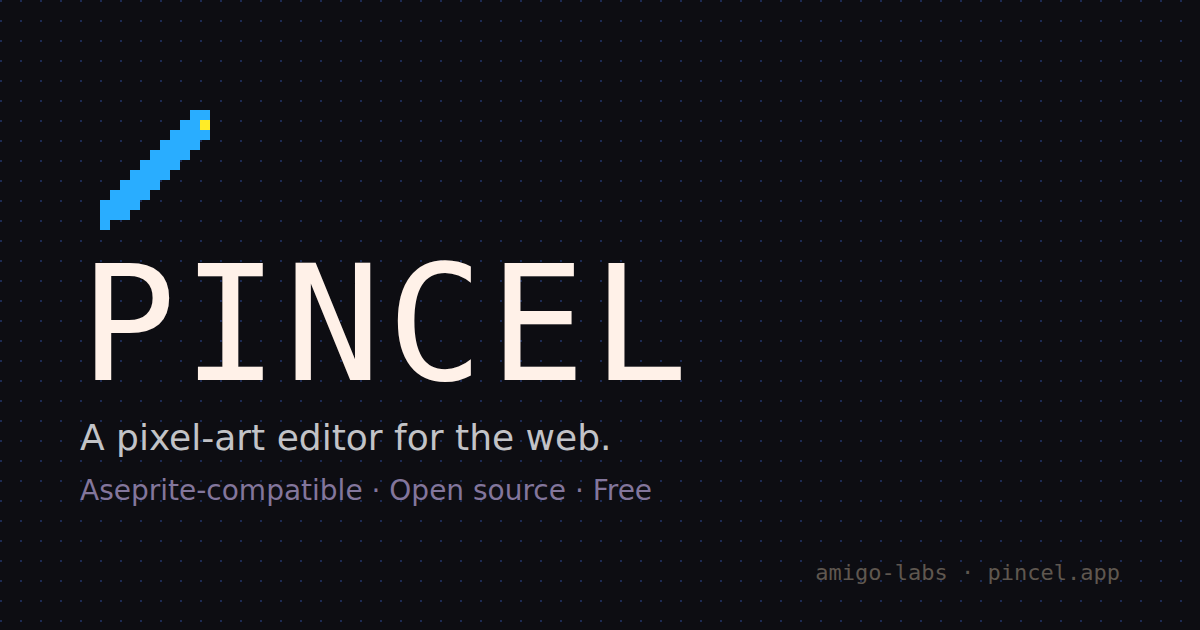
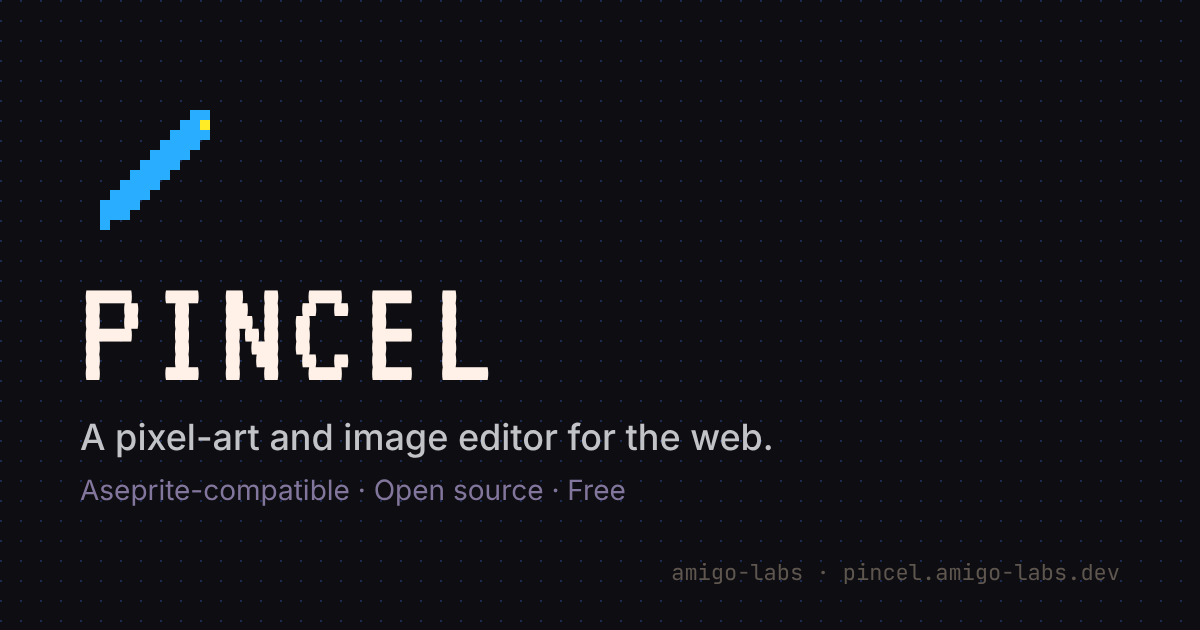
docs(website): pixel art and image editing on equal footing
Hero, SEO title / description, JSON-LD, pitch, feature grid and about
copy in English and German present both editors; the hero title breaks
into three even lines. The social preview image says the same and is
re-rendered from its SVG with the intended fonts (the old PNG used
fallback fonts and the old domain).

Claude-Session: https://claude.ai/code/session_01WH5YWiAC4dLCHVX7nUNuJX

diff --git a/website/src/lib/i18n/de.ts b/website/src/lib/i18n/de.ts
@@ -26,9 +26,9 @@ export const de: Messages = {
   },
   hero: {
     caption: 'Pixel-Art- & Bildeditor · v0.1',
-    title: 'Ein Pixel-Art-Editor\nfürs Web.',
+    title: 'Ein Pixel-Art-\nund Bildeditor\nfürs Web.',
     tagline:
-      'Aseprite-kompatibel. Open Source. Kostenlos. Erstelle Sprites, Tilemaps und Animationen im Browser. Speichere als `.aseprite`. Ab damit ins Spiel. Einen Screenshot oder ein Foto nachbearbeiten? Der Bild-Modus öffnet PNG, JPEG und WebP mit Ebenen und Effekten. Kein Konto, kein Upload, kein Haken.',
+      'Open Source. Kostenlos. Zwei Editoren in einem: Erstelle Sprites, Tilemaps und Animationen, speichere sie Aseprite-kompatibel als `.aseprite` und ab damit ins Spiel. Bearbeite Fotos, Screenshots und Grafiken mit Ebenen, Pinseln, Auswahlen und Effekten – PNG, JPEG, WebP, TIFF und mehr. Kein Konto, kein Upload, kein Haken.',
     github: 'Auf GitHub ansehen',
     scene: 'Eine kleine blaue Figur in einem Steinraum, beleuchtet von einer flackernden Fackel.',
   },
@@ -63,7 +63,7 @@ export const de: Messages = {
     image: {
       title: 'Bild-Modus',
       description:
-        'Ebenen, Mischmodi, Auswahlen und Effekte für Screenshots und Fotos. Speichert .ora.',
+        'Ebenen, Pinsel, Auswahlen, Effekte und Korrekturen für Fotos, Screenshots und Grafiken. Speichert .ora.',
     },
     offline: {
       title: 'Offline-PWA',
@@ -108,7 +108,7 @@ export const de: Messages = {
       timeline: 'Animations-Zeitleiste + Tags',
       tablet: 'Tablet- / Stift-Unterstützung',
       browser: 'Läuft im Browser',
-      photo: 'Foto- / Screenshot-Bearbeitung mit Ebenen',
+      photo: 'Bildbearbeitung mit Ebenen (Fotos, Screenshots)',
       desktop: 'Native Desktop-App',
       library: 'Als Bibliothek einbettbar',
       scripting: 'Lua-Skripte / Erweiterungen',
@@ -132,15 +132,15 @@ export const de: Messages = {
     },
   },
   home: {
-    seoTitle: 'Pincel – ein Pixel-Art-Editor fürs Web',
+    seoTitle: 'Pincel – ein Pixel-Art- und Bildeditor fürs Web',
     seoDescription:
-      'Aseprite-kompatibler Pixel-Art-Editor im Browser, dazu ein Bild-Modus mit Ebenen für Screenshots und Fotos. Open Source, kostenlos, mit Tilemaps, Slices, Animation und Tablet-Unterstützung.',
+      'Pixel-Art- und Bildeditor im Browser: Aseprite-kompatible Sprites, Tilemaps, Slices und Animation, dazu Bildbearbeitung mit Ebenen, Pinseln, Auswahlen und Effekten für Fotos und Screenshots. Open Source, kostenlos, mit Tablet-Unterstützung.',
     jsonLd:
-      'Ein Pixel-Art-Editor fürs Web, mit einem Bild-Modus mit Ebenen für die alltägliche Bearbeitung. Aseprite-kompatibel, Open Source, kostenlos. Erstelle Sprites, Tilemaps und Animationen im Browser.',
+      'Ein Pixel-Art- und Bildeditor fürs Web. Aseprite-kompatible Sprites, Tilemaps und Animationen und Bildbearbeitung mit Ebenen für PNG, JPEG, WebP und TIFF. Open Source, kostenlos.',
     pitch:
-      'Pincel ist für Spieleentwickler und Pixel-Künstler gemacht, die ein ernsthaftes Werkzeug im Browser-Tab wollen. Es liest und schreibt das Aseprite-Format, sodass deine Arbeit in bestehende Pipelines passt. Es kann Tilemaps, Slices, Animations-Tags, Paletten und indizierte Farben – das, was man wirklich braucht. Daneben gibt es einen Bild-Modus für alles, was keine Pixel-Art ist – Screenshots, Fotos, UI-Entwürfe – mit Ebenen, Mischmodi, Auswahlen, Effekten und Korrekturen, gespeichert als OpenRaster, das auch GIMP und Krita öffnen. Es läuft offline als PWA, spricht Deutsch und Englisch und lässt sich auf dem iPad installieren. Es ist Open Source unter MIT oder Apache 2.0, und das bleibt so.',
+      'Pincel sind zwei Editoren in einem Browser-Tab, und die Datei entscheidet, welcher sich öffnet. Der Pixel-Modus ist für Spieleentwickler und Pixel-Künstler gemacht: Er liest und schreibt das Aseprite-Format, sodass deine Arbeit in bestehende Pipelines passt, mit Tilemaps, Slices, Animations-Tags, Paletten und indizierten Farben – das, was man wirklich braucht. Der Bild-Modus ist ein vollwertiger Editor im Stil von paint.net für alles andere – Fotos, Screenshots, UI-Entwürfe, Grafiken – mit Ebenen, Mischmodi, Pinseln, Auswahlen, Transformationen, Effekten und Korrekturen; er öffnet PNG, JPEG, WebP, BMP, GIF und TIFF und speichert OpenRaster, das auch GIMP und Krita öffnen. Beide laufen offline als PWA oder als Desktop-App, sprechen Deutsch und Englisch und funktionieren auf dem iPad. Pincel ist Open Source unter MIT oder Apache 2.0, und das bleibt so.',
     whatEyebrow: 'Was es kann',
-    whatTitle: 'Gebaut für die Spieleentwicklung.',
+    whatTitle: 'Vom Spiele-Asset bis zum Alltagsbild.',
     compareEyebrow: 'Ehrlicher Vergleich',
     compareTitle: 'Wo es heute steht.',
     howEyebrow: 'In drei Schritten',
@@ -149,7 +149,7 @@ export const de: Messages = {
   features: {
     seoTitle: 'Funktionen – Pincel',
     seoDescription:
-      'Alle Funktionen von Pincel im Detail: Arbeitsfläche, Werkzeuge, Ebenen, Animation, Tilemaps, Slices, Palette, Dateiformat, Tablet-Unterstützung, PWA und was als Nächstes kommt.',
+      'Alle Funktionen von Pincel im Detail: Arbeitsfläche, Werkzeuge, Ebenen, Animation, Tilemaps, Slices, Palette, Dateiformat, Bild-Modus, Tablet-Unterstützung, PWA und was als Nächstes kommt.',
     caption: 'Funktionen im Detail',
     title: 'Alles, was Pincel heute kann.',
     lede: 'Ausführlich, ehrlich, mit Screenshots. Wo eine Funktion noch in Arbeit ist, sagen wir das. Wo sie geplant, aber noch nicht gebaut ist, auch.',
@@ -234,7 +234,7 @@ export const de: Messages = {
       'Pincel gehört zu amigo-labs, einem Open-Source-Ökosystem von Werkzeugen für die Spieleentwicklung in Rust. Kostenlos, MIT oder Apache 2.0, keine Finanzierungsrunde, kein Abo.',
     caption: 'Über',
     title: 'Ein Pixel-Art-Editor – und ein Bildeditor – mit langem Atem.',
-    p1: 'Pincel gehört zu [amigo-labs](https://amigo-labs.dev), einem Open-Source-Ökosystem von Werkzeugen für die Spieleentwicklung in Rust. Das Flaggschiff ist amigo-engine – eine deterministische, ECS-basierte 2D-Engine mit eingebautem Level-Editor, KI-Asset-Pipelines und Werkzeugen für Chiptune-Musik. Pincel füllt die Lücke beim Pixel-Art-Editor in diesem Ökosystem und steht auch für sich allein. Sein Bild-Modus begann als Schwesterprojekt Fineliner, ein Editor im Stil von paint.net; heute teilen sich beide eine App, eine Effekt-Engine und ein Release.',
+    p1: 'Pincel gehört zu [amigo-labs](https://amigo-labs.dev), einem Open-Source-Ökosystem von Werkzeugen für die Spieleentwicklung in Rust. Das Flaggschiff ist amigo-engine – eine deterministische, ECS-basierte 2D-Engine mit eingebautem Level-Editor, KI-Asset-Pipelines und Werkzeugen für Chiptune-Musik. Pincel füllt die Editor-Lücke in diesem Ökosystem – für Pixel-Art und für jedes andere Bild – und steht auch für sich allein. Sein Bild-Modus begann als Schwesterprojekt Fineliner, ein Editor im Stil von paint.net; heute teilen sich beide eine App, eine Effekt-Engine und ein Release.',
     p2: 'Das Projekt ist Open Source unter MIT oder Apache 2.0 – du hast die Wahl. Wir nutzen das Format von Aseprite, das dokumentiert ist und sich nachbauen lässt. Wir sind nicht mit dem Aseprite-Projekt verbunden und konkurrieren nicht mit ihm: Aseprite hat 14 Jahre Feinschliff und einen Funktionsumfang, den wir nicht über Nacht einholen. Pincel ist für alle da, die eine kostenlose, webbasierte und einbettbare Alternative wollen.',
     p3: 'Keine Finanzierungsrunde. Kein Abo in Sicht. Kein „Open Core“-Haken. Der Plan: das Werkzeug gut und den Code sauber halten und es pflegen, solange es Menschen benutzen.',
     builtTitle: 'Mit Pincel selbst gebaut',

diff --git a/website/src/lib/i18n/en.ts b/website/src/lib/i18n/en.ts
@@ -25,9 +25,9 @@ export const en = {
   },
   hero: {
     caption: 'Pixel-art & image editor · v0.1',
-    title: 'A pixel-art editor\nfor the web.',
+    title: 'A pixel-art and\nimage editor\nfor the web.',
     tagline:
-      'Aseprite-compatible. Open source. Free. Make sprites, tilemaps, and animations in your browser. Save as `.aseprite`. Drop into your game. Need to touch up a screenshot or a photo? The Image mode opens PNG, JPEG and WebP with layers and effects. No account, no upload, no catch.',
+      'Open source. Free. Two editors in one: make sprites, tilemaps, and animations, save as Aseprite-compatible `.aseprite` and drop them into your game. Edit photos, screenshots, and artwork with layers, brushes, selections, and effects — PNG, JPEG, WebP, TIFF and more. No account, no upload, no catch.',
     github: 'View on GitHub',
     scene: 'A small blue character standing in a stone room lit by a flickering torch.',
   },
@@ -59,7 +59,7 @@ export const en = {
     image: {
       title: 'Image Mode',
       description:
-        'Layers, blend modes, selections, effects for screenshots and photos. Saves .ora.',
+        'Layers, brushes, selections, effects, and adjustments for photos, screenshots, and artwork. Saves .ora.',
     },
     offline: {
       title: 'Offline PWA',
@@ -100,7 +100,7 @@ export const en = {
       timeline: 'Animation timeline + tags',
       tablet: 'Tablet / pen support',
       browser: 'Runs in browser',
-      photo: 'Layered photo / screenshot editing',
+      photo: 'Layered image editing (photos, screenshots)',
       desktop: 'Native desktop app',
       library: 'Embeddable as a library',
       scripting: 'Lua scripting / extensions',
@@ -124,15 +124,15 @@ export const en = {
     },
   },
   home: {
-    seoTitle: 'Pincel — a pixel-art editor for the web',
+    seoTitle: 'Pincel — a pixel-art and image editor for the web',
     seoDescription:
-      'Aseprite-compatible pixel-art editor that runs in your browser, plus a layered image mode for screenshots and photos. Open source, free, with tilemaps, slices, animation, and tablet support.',
+      'Pixel-art and image editor that runs in your browser: Aseprite-compatible sprites, tilemaps, slices, and animation, plus layered editing of photos and screenshots with brushes, selections, and effects. Open source, free, with tablet support.',
     jsonLd:
-      'A pixel-art editor for the web, with a layered image mode for everyday editing. Aseprite-compatible, open source, free. Make sprites, tilemaps, and animations in your browser.',
+      'A pixel-art and image editor for the web. Aseprite-compatible sprites, tilemaps, and animations, and layered editing of PNG, JPEG, WebP, and TIFF images. Open source, free.',
     pitch:
-      "Pincel is built for game developers and pixel artists who want a serious tool that runs in a browser tab. It reads and writes the Aseprite file format, so your work fits into existing pipelines. It supports tilemaps, slices, animation tags, palettes, and indexed color — the things you actually need. Next to it sits an Image mode for everything that isn't pixel art — screenshots, photos, UI mockups — with layers, blend modes, selections, effects and adjustments, saved as OpenRaster so GIMP and Krita open it too. It runs offline as a PWA, speaks English and German, and you can install it on iPad. It's open source under MIT or Apache 2.0, and it will stay that way.",
+      "Pincel is two editors in one browser tab, and the file decides which one opens. Pixel mode is built for game developers and pixel artists: it reads and writes the Aseprite file format, so your work fits into existing pipelines, with tilemaps, slices, animation tags, palettes, and indexed color — the things you actually need. Image mode is a full paint.net-style editor for everything else — photos, screenshots, UI mockups, artwork — with layers, blend modes, brushes, selections, transforms, effects, and adjustments; it opens PNG, JPEG, WebP, BMP, GIF, and TIFF and saves OpenRaster so GIMP and Krita open it too. Both run offline as a PWA or as a desktop app, speak English and German, and work on an iPad. It's open source under MIT or Apache 2.0, and it will stay that way.",
     whatEyebrow: 'What it does',
-    whatTitle: 'Built for game-dev workflows.',
+    whatTitle: 'From game assets to everyday images.',
     compareEyebrow: 'Honest comparison',
     compareTitle: 'Where it stands today.',
     howEyebrow: 'In three steps',
@@ -141,7 +141,7 @@ export const en = {
   features: {
     seoTitle: 'Features — Pincel',
     seoDescription:
-      "Every feature in Pincel, deep-dive style: canvas, tools, layers, animation, tilemaps, slices, palette, file format, tablet support, PWA, and what's coming next.",
+      "Every feature in Pincel, deep-dive style: canvas, tools, layers, animation, tilemaps, slices, palette, file format, image mode, tablet support, PWA, and what's coming next.",
     caption: 'Feature deep-dive',
     title: 'Everything Pincel does today.',
     lede: "Dense, honest, screenshot-led. Where a feature is still in progress, we say so. Where it's planned but not built, we say that too.",
@@ -226,7 +226,7 @@ export const en = {
       'Pincel is part of amigo-labs, an open-source ecosystem of game-development tools built in Rust. Free, MIT or Apache 2.0, no funding round, no subscription tier.',
     caption: 'About',
     title: 'A pixel-art editor — and an image editor — with a long view.',
-    p1: 'Pincel is part of [amigo-labs](https://amigo-labs.dev), an open-source ecosystem of game-development tools built in Rust. The flagship is amigo-engine — a deterministic ECS-based 2D engine with a built-in level editor, AI asset pipelines, and chiptune music tooling. Pincel fills the pixel-art-editor gap in that ecosystem, and stands alone for anyone outside it. Its Image mode began as the sister project Fineliner, a paint.net-style editor; the two now share one app, one effects engine and one release.',
+    p1: 'Pincel is part of [amigo-labs](https://amigo-labs.dev), an open-source ecosystem of game-development tools built in Rust. The flagship is amigo-engine — a deterministic ECS-based 2D engine with a built-in level editor, AI asset pipelines, and chiptune music tooling. Pincel fills the editor gap in that ecosystem — for pixel art and for every other image — and stands alone for anyone outside it. Its Image mode began as the sister project Fineliner, a paint.net-style editor; the two now share one app, one effects engine and one release.',
     p2: "The project is open source under MIT or Apache 2.0 — your choice. The format we use is Aseprite's, which is documented and reimplementable. We are not affiliated with the Aseprite project, and we don't compete with it: Aseprite has 14 years of refinement and a deep feature set we won't catch up to overnight. Pincel exists for people who want a free, web-based, embeddable alternative.",
     p3: 'No funding round. No subscription tier coming. No "open core" gotcha. The plan is to keep the tool good and the codebase clean, and to maintain it for as long as people use it.',
     builtTitle: 'Built with Pincel itself',
